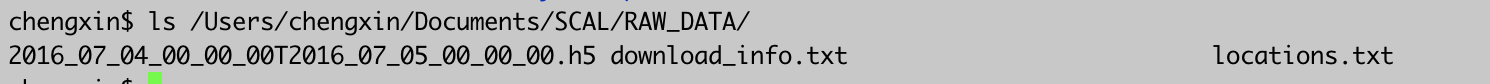
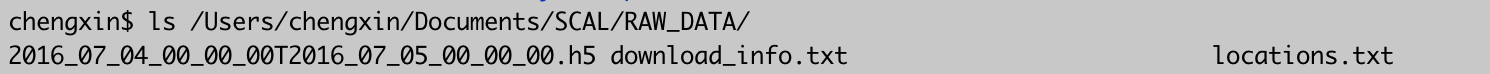
update tutorials

diff --git a/README.md b/README.md
@@ -44,7 +44,7 @@ If you want to use multiple cores (e.g, 4), run the script with the following co
 mpirun -n 4 python S0_download_ASDF_MPI.py
 ```
 
-![downloaded data](/docs/src/downloaded.png)
+<img src="/docs/src/downloaded.png" width="800" height="50">
 
 The snapshot above shows the output file from S1 with 24 hour long continous recordings. The names are pretty straightforward to understand. (more details on reading the ASDF files with downloaded data can be found in docs/src/ASDF.md) We can plot the continous waveforms using the plotting functions in the `plot_modules` like this.\
 
